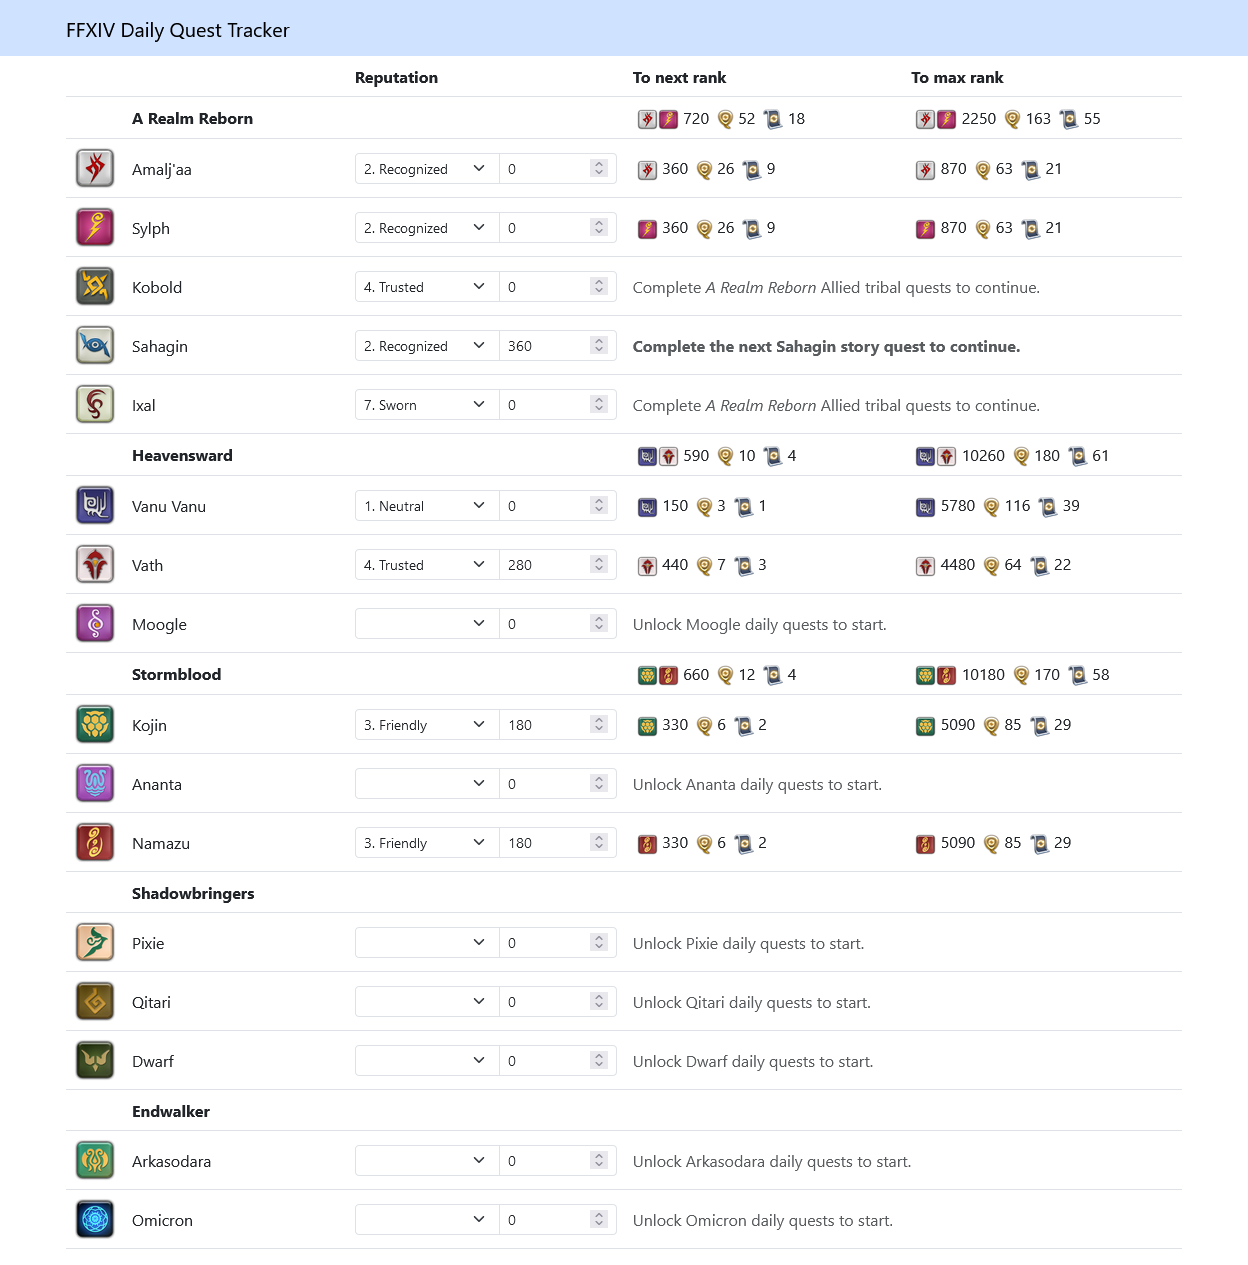
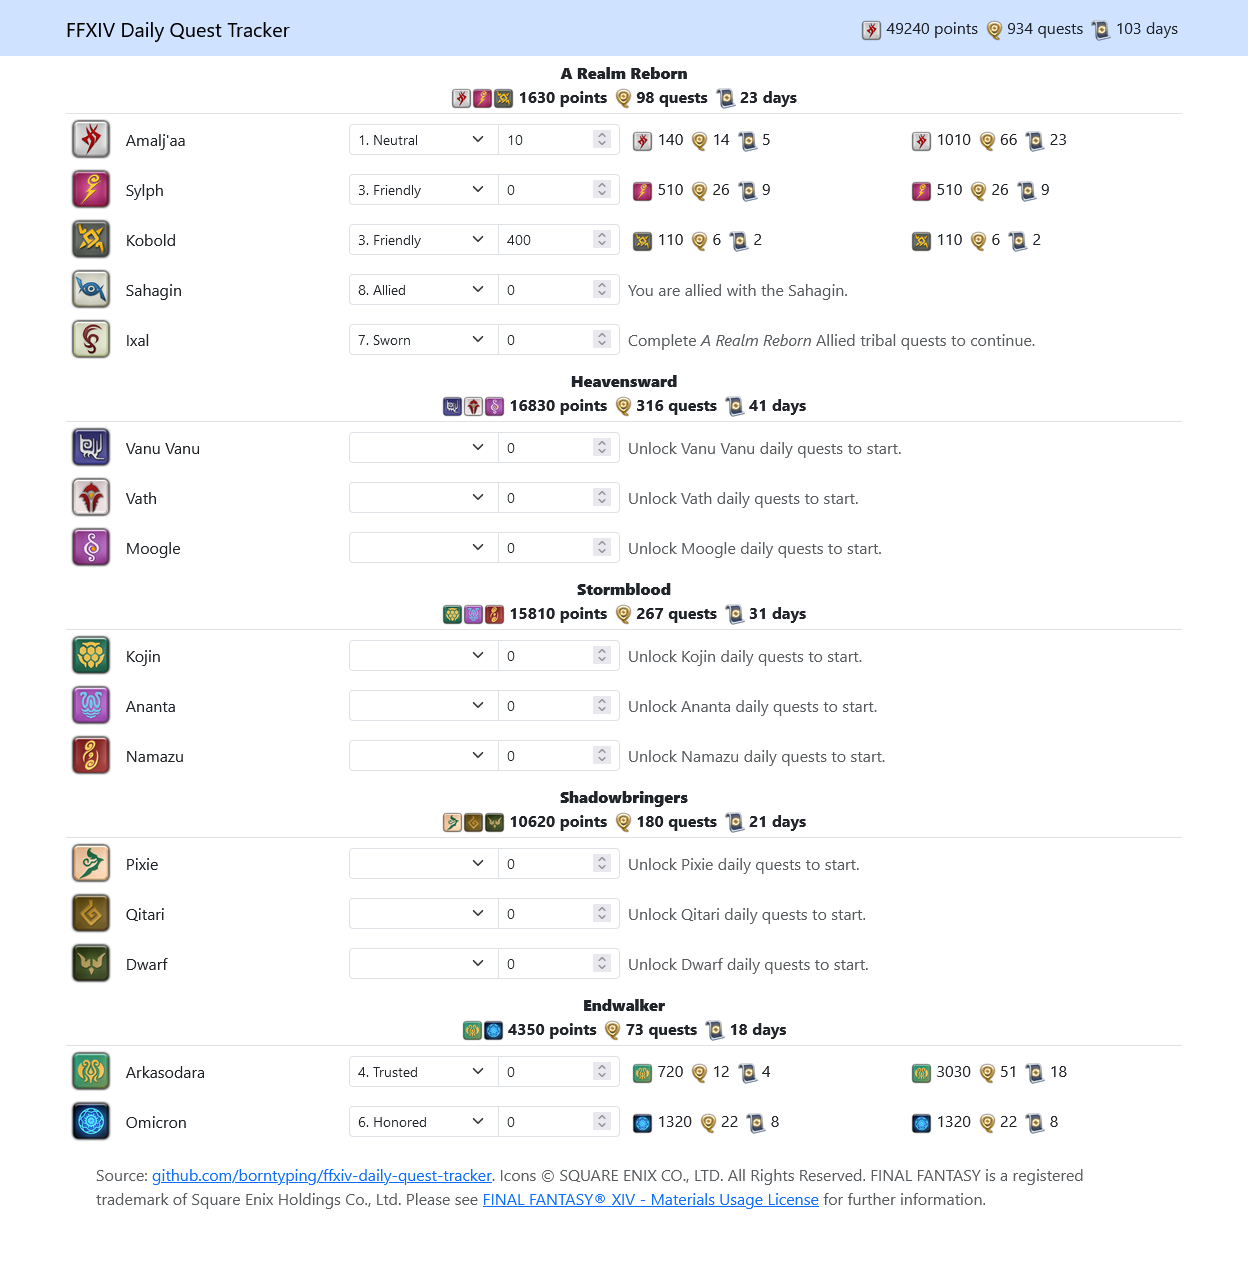
Move totals to header, update screenshot

diff --git a/index.html b/index.html
@@ -13,15 +13,37 @@
     <script crossorigin="anonymous" defer integrity="sha384-w76AqPfDkMBDXo30jS1Sgez6pr3x5MlQ1ZAGC+nuZB+EYdgRZgiwxhTBTkF7CXvN" src="https://cdn.jsdelivr.net/npm/bootstrap@5.3.0-alpha1/dist/js/bootstrap.bundle.min.js"></script>
   </head>
 
-  <body>
+  <body x-data>
     <nav class="navbar bg-primary-subtle">
       <div class="container">
         <a href="#" class="navbar-brand">FFXIV Daily Quest Tracker</a>
+
+        <div>
+          <div class="d-flex justify-content-center">
+            <span class="mx-1" title="Points to complete all beast tribes">
+              <template x-for="tribe in $store.game.tribesWithPointsRemaining.slice(0, 1)">
+                <img alt="" height="21" src="" width="21" x-bind:src="tribe.icon()">
+              </template>
+              <span x-text="$store.game.pointsToCompletion()"></span>
+              points
+            </span>
+            <span class="mx-1" title="Quests to complete all beast tribes">
+              <img alt="quests" height="21" src="img/sidequest.png">
+              <span x-text="$store.game.questsToCompletion()">></span>
+              quests
+            </span>
+            <span class="mx-1" title="Days to complete all beast tribes">
+              <img alt="quests" height="21" src="img/guildhest.png">
+              <span x-text="$store.game.daysToCompletion()"></span>
+              days
+            </span>
+          </div>
+        </div>
       </div>
     </nav>
 
     <div class="container">
-      <table class="table table-sm" x-data>
+      <table class="table table-sm">
         <colgroup>
           <col style="width: 5%;">
           <col style="width: 20%;">
@@ -48,7 +70,9 @@
                   <div><strong x-text="expansion.name"></strong></div>
                   <div class="d-flex justify-content-center">
                     <span class="mx-1" title="Points to complete this expansion">
-                      <template x-for="tribe in expansion.tribesWithPointsRemaining()"><img alt="" height="21" src="" width="21" x-bind:src="tribe.icon()"></template>
+                      <template x-for="tribe in expansion.tribesWithPointsRemaining()">
+                        <img alt="" height="21" src="" width="21" x-bind:src="tribe.icon()">
+                      </template>
                       <span x-text="expansion.pointsToCompletion()"></span>
                       points
                     </span>
@@ -106,32 +130,6 @@
             </template>
           </thead>
         </template>
-
-        <tfoot>
-          <tr>
-            <td colspan="5">
-              <div class="text-center">
-                <div><strong>All Beast Tribe quests</strong></div>
-                <div class="d-flex justify-content-center">
-                  <span class="mx-1" title="Points to complete all beast tribes">
-                    <span x-text="$store.game.pointsToCompletion()"></span>
-                    points
-                  </span>
-                  <span class="mx-1" title="Quests to complete all beast tribes">
-                    <img alt="quests" height="21" src="img/sidequest.png">
-                    <span x-text="$store.game.questsToCompletion()">></span>
-                    quests
-                  </span>
-                  <span class="mx-1" title="Days to complete all beast tribes">
-                    <img alt="quests" height="21" src="img/guildhest.png">
-                    <span x-text="$store.game.daysToCompletion()"></span>
-                    days
-                  </span>
-                </div>
-              </div>
-            </td>
-          </tr>
-        </tfoot>
       </table>
     </div>
 
